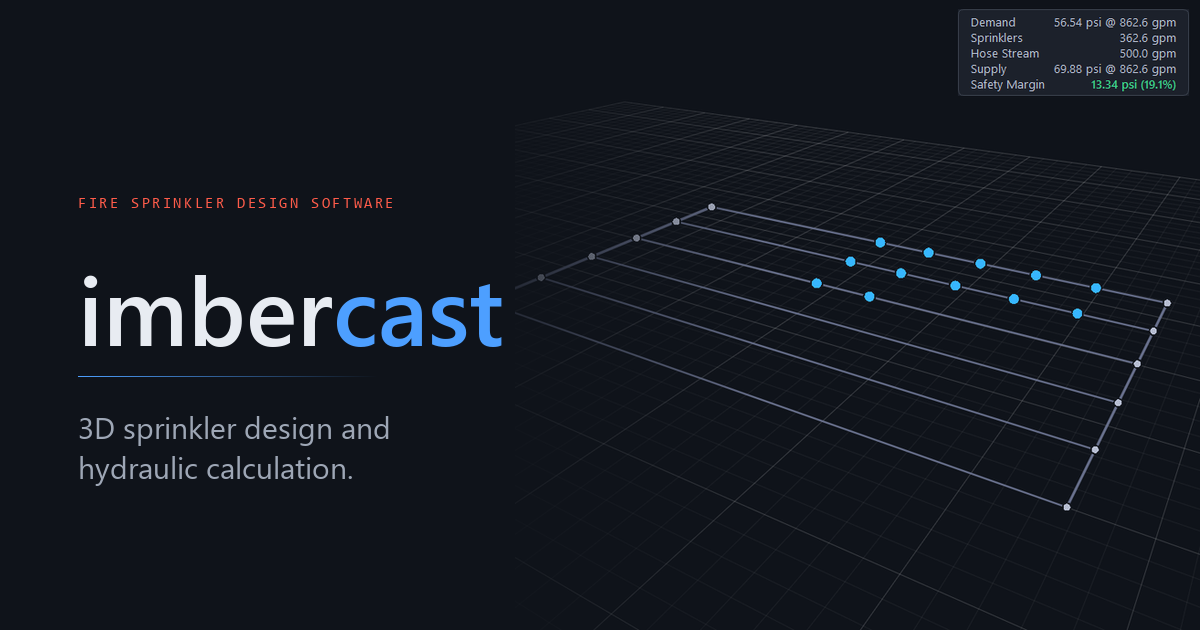
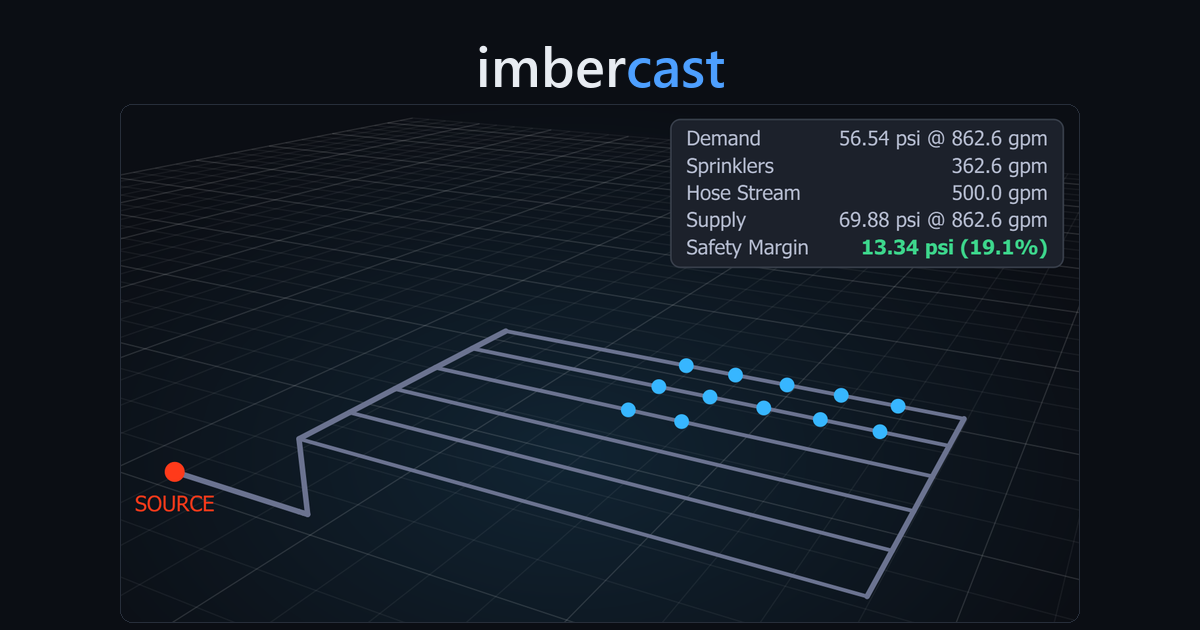
Stack the link preview: wordmark over the artwork
The side-by-side version put the type against the render with a scrim
between them, and it read as two things fighting for the same space. The
wordmark sits above the artwork now, with the drawing in a framed panel
below it, the same frame the page gives its viewport.

The crop keeps the whole network, the source and its label, and the results
chip; the empty grid left of the supply and below the model is trimmed,
which is what makes the rest fit at this aspect.

diff --git a/index.html b/index.html
@@ -14,7 +14,7 @@
 <meta property="og:image" content="https://imbercast.com/og-2.png">
 <meta property="og:image:width" content="1200">
 <meta property="og:image:height" content="630">
-<meta property="og:image:alt" content="imbercast: a sprinkler grid in the 3-D viewport with the calculated demand and safety margin.">
+<meta property="og:image:alt" content="imbercast, above a sprinkler grid drawn in the 3-D viewport with its calculated demand and safety margin.">
 <meta name="twitter:image" content="https://imbercast.com/og-2.png">
 <meta name="twitter:card" content="summary_large_image">
 <meta name="theme-color" content="#06080b">
